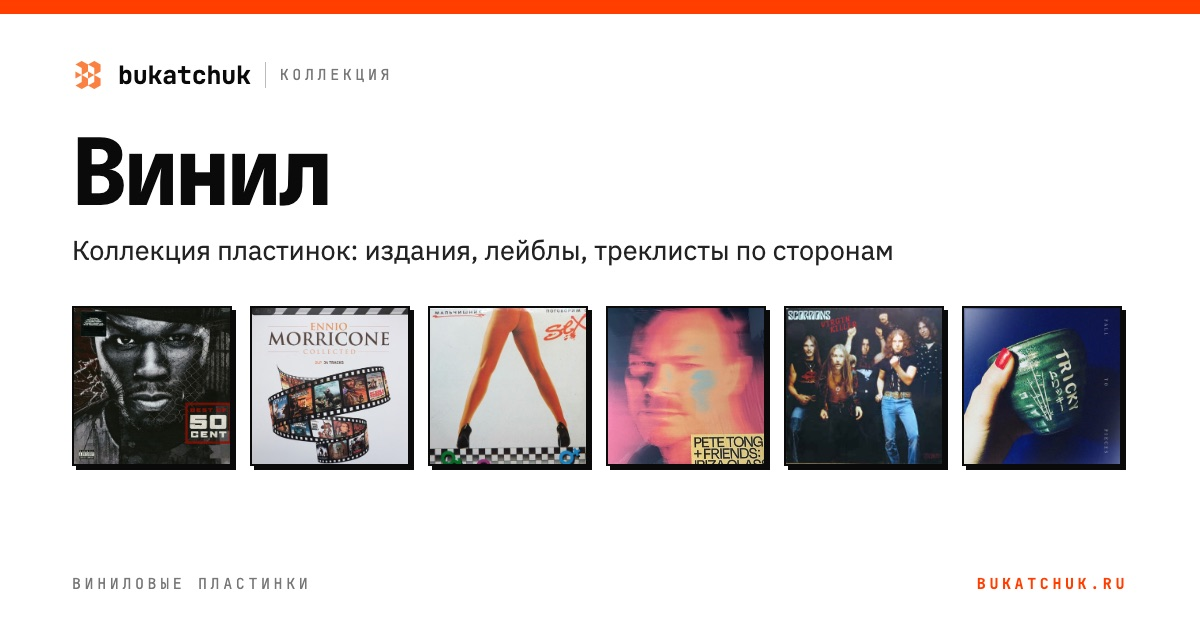
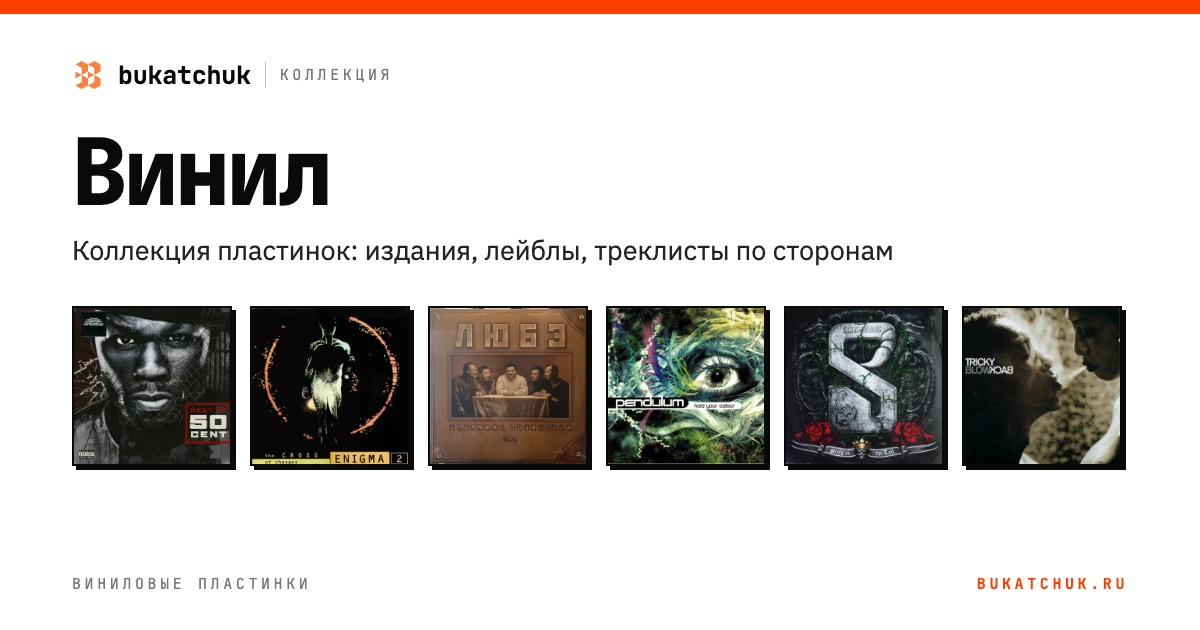
Винил: стендап Данилы Поперечного «Нелицеприятный» — исключение из правила «только музыка»

Changed region(s): [[0.185, 0.4825, 0.9558, 0.754]]

diff --git a/.claude/CLAUDE.md b/.claude/CLAUDE.md
@@ -160,7 +160,7 @@ PATH="$HOME/.rubies/ruby-3.3.0/bin:$PATH" bundle exec jekyll build --destination
 - **Цвет не уточнён.** Если на Discogs сказано только «Coloured» и тираж печатался на виниле разных цветов, в `color` остаётся `Coloured`, а в «Дополнительной информации» говорится, что цвета разные.
 - **Одноимённые исполнители.** Жанр и лейбл релиза сверяются с исполнителем: Nazareth на Stimulant Records — хард-транс-проект, а не рок-группа. В `artist` имя остаётся как на Discogs, различие называется в «Об альбоме» и в отчёте владельцу.
 - **Опечатки Discogs** в названиях песен исправляются, владельцу об этом говорится.
-- **Только музыка.** В раздел идут музыкальные пластинки. Учебные курсы, аудиокниги, записи речей и прочее немузыкальное (на Discogs жанр `Non-Music`) не добавляются; если такая ссылка попалась в пачке, она пропускается, а владельцу об этом говорится.
+- **Только музыка.** В раздел идут музыкальные пластинки. Учебные курсы, аудиокниги, записи речей и прочее немузыкальное (на Discogs жанр `Non-Music`) не добавляются; если такая ссылка попалась в пачке, она пропускается, а владельцу об этом говорится. Исключение делает только сам владелец, по каждому релизу отдельно: так добавлен стендап-концерт Данилы Поперечного «Нелицеприятный». У такого релиза в «Об альбоме» прямо сказано, что это не музыка, а годом альбома ставится год выхода самой записи.
 - **Данные об экземпляре** (состояние, цена, где куплена) на сайте не показываются.
 - **Обложки** берутся с Discogs, со страницы выбранного издания.
 - **Превью ссылки** есть у каждого релиза и у общей страницы: картинка 1200×630 в `assets/img/vinyl/og/`, в том же оформлении, что обложки статей, — слева обложка альбома, справа исполнитель, название, год, лейбл и формат. Делается скриптом `python3 .claude/tools/vinyl_og.py`; `vinyl_add.py` вызывает его сам. Поле `image` релиза указывает на эту картинку, поле `cover` — на саму обложку. После правки названия, года или лейбла превью пересоздаётся: `vinyl_og.py <имя-файла>`.

diff --git a/_vinyl/danila-poperechnyy-nelitsepriyatnyy.md b/_vinyl/danila-poperechnyy-nelitsepriyatnyy.md
@@ -1,0 +1,30 @@
+---
+layout: release
+artist: "Данила Поперечный"
+title: "Нелицеприятный"
+year: 2019
+original_year: 2018
+released: 2019
+label: "Ультра Продакшн"
+catno: ""
+barcode: "4620032912599"
+country: "Россия"
+format: "LP"
+discs: 1
+color: "Black"
+genres: ["Non-Music"]
+styles: ["Comedy", "Spoken Word"]
+discogs: "https://www.discogs.com/release/20076622"
+cover: /assets/img/vinyl/danila-poperechnyy-nelitsepriyatnyy.jpg
+image: /assets/img/vinyl/og/danila-poperechnyy-nelitsepriyatnyy.jpg
+description: "Данила Поперечный — Нелицеприятный: LP, Ультра Продакшн, 2019."
+about: |
+  Запись стендап-концерта комика и видеоблогера Данилы Поперечного — не музыкальная пластинка, а разговорный жанр. Полуторачасовой концерт Поперечный выложил на своём YouTube-канале в августе 2018 года. Темы — выборы президента, гаджеты, школьники и личная жизнь самого комика.
+about_source: "https://daily.afisha.ru/infoporn/9732-danila-poperechnyy-opublikoval-na-yutyube-svoy-polutorachasovoy-stendap/"
+about_source_name: "Afisha Daily"
+extra: |
+  Концерт разделён на две стороны пластинки.
+tracklist:
+  - {pos: "A", title: "Нелицеприятный"}
+  - {pos: "B", title: "Нелицеприятный"}
+---
